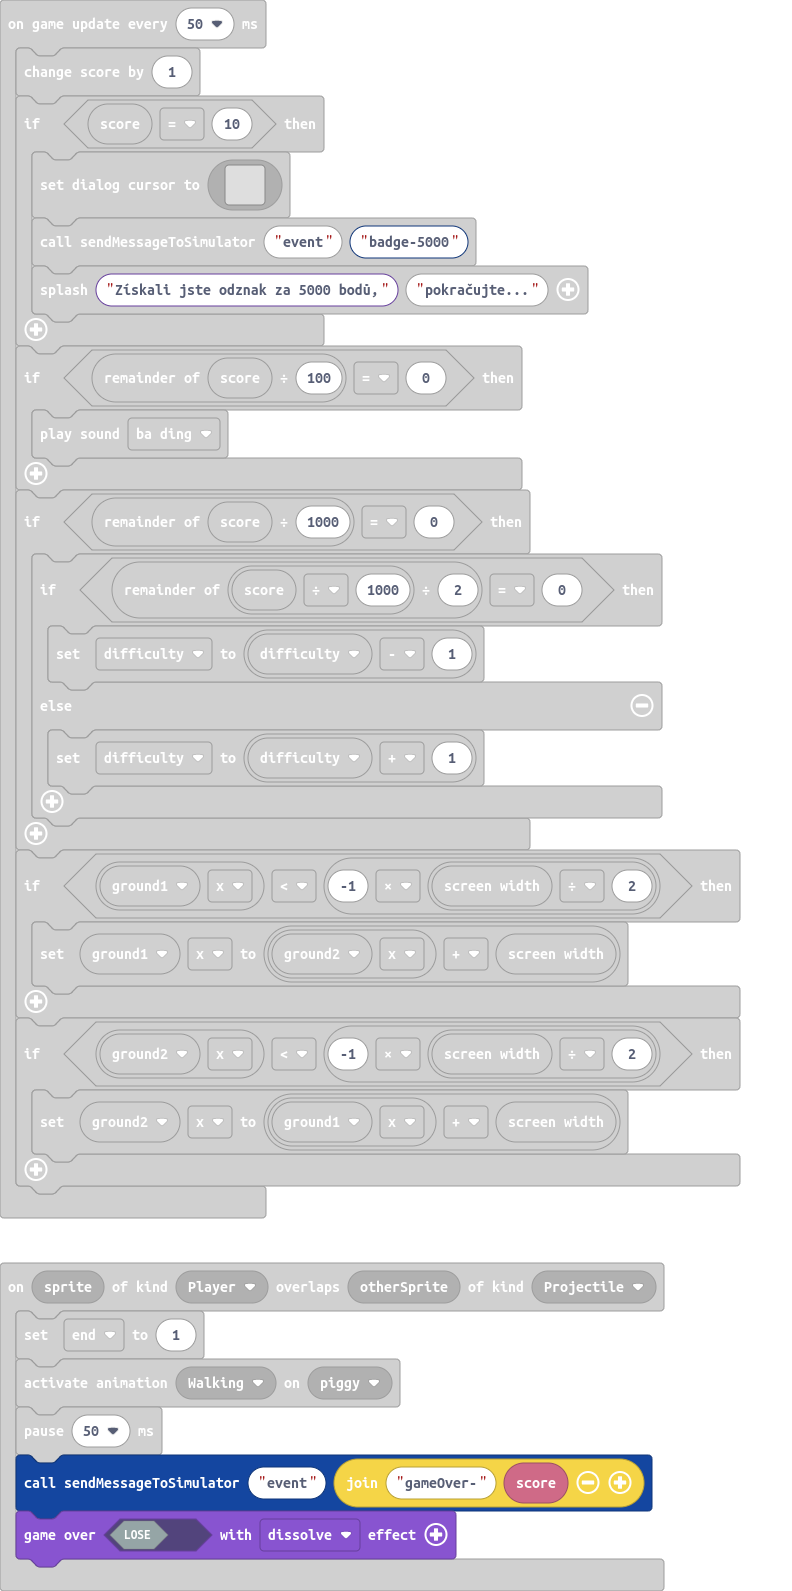
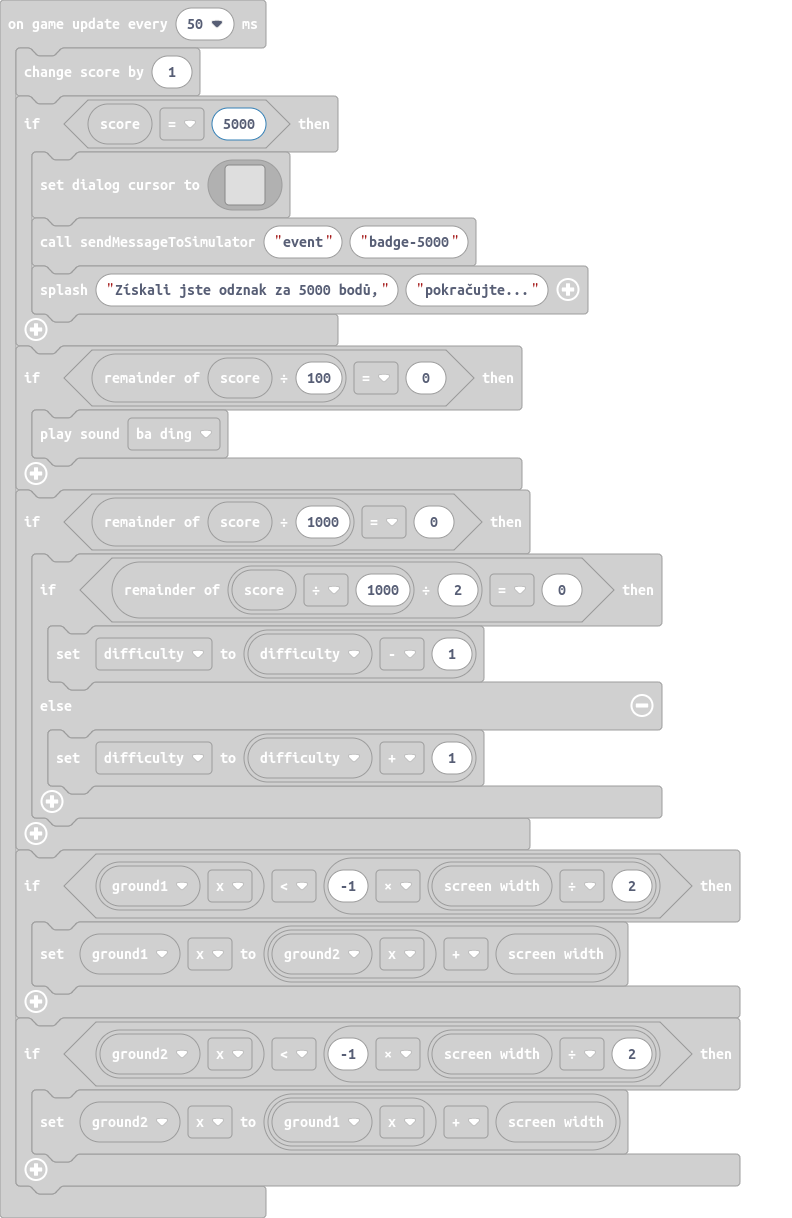
Update main.blocks, main.ts

diff --git a/main.ts b/main.ts
@@ -119,7 +119,7 @@ game.onUpdate(function () {
 })
 game.onUpdateInterval(50, function () {
     info.changeScoreBy(1)
-    if (info.score() == 10) {
+    if (info.score() == 5000) {
         game.setDialogCursor(img`
             . . . . . . . . . . . . . . . . 
             . . . . . . . . . . . . . . . . 
